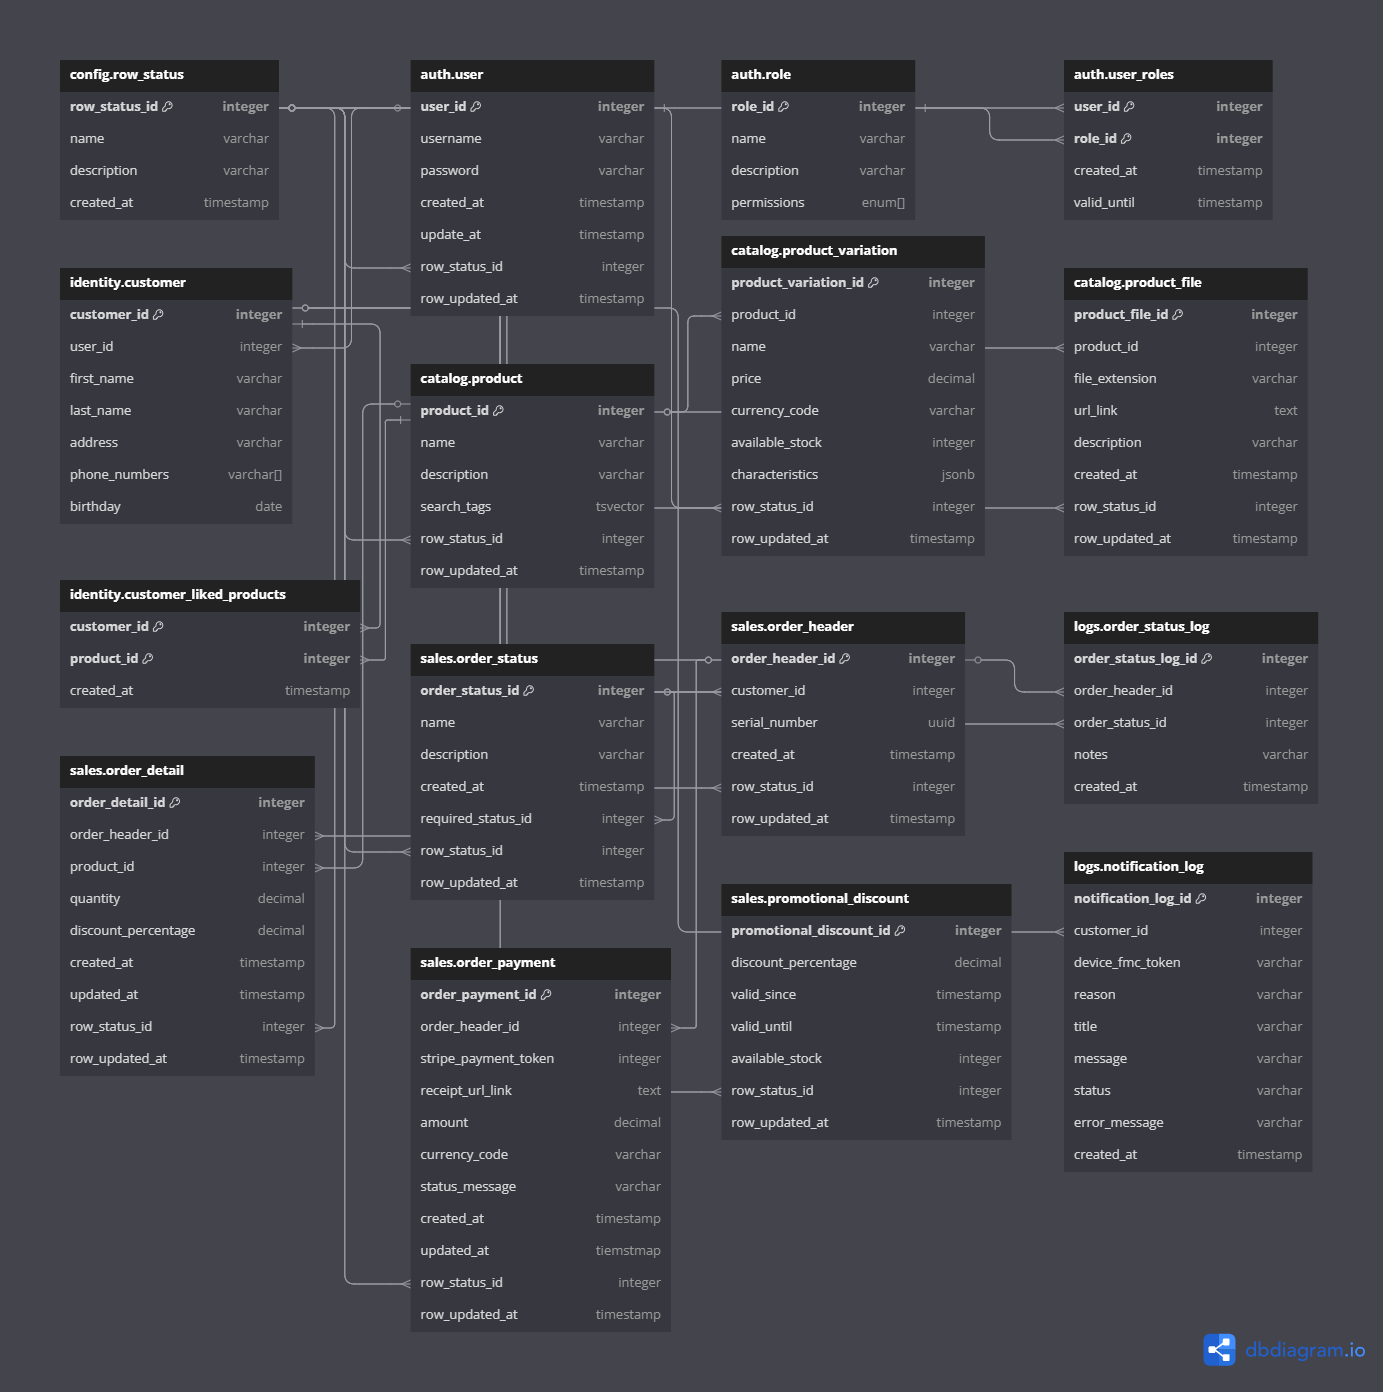
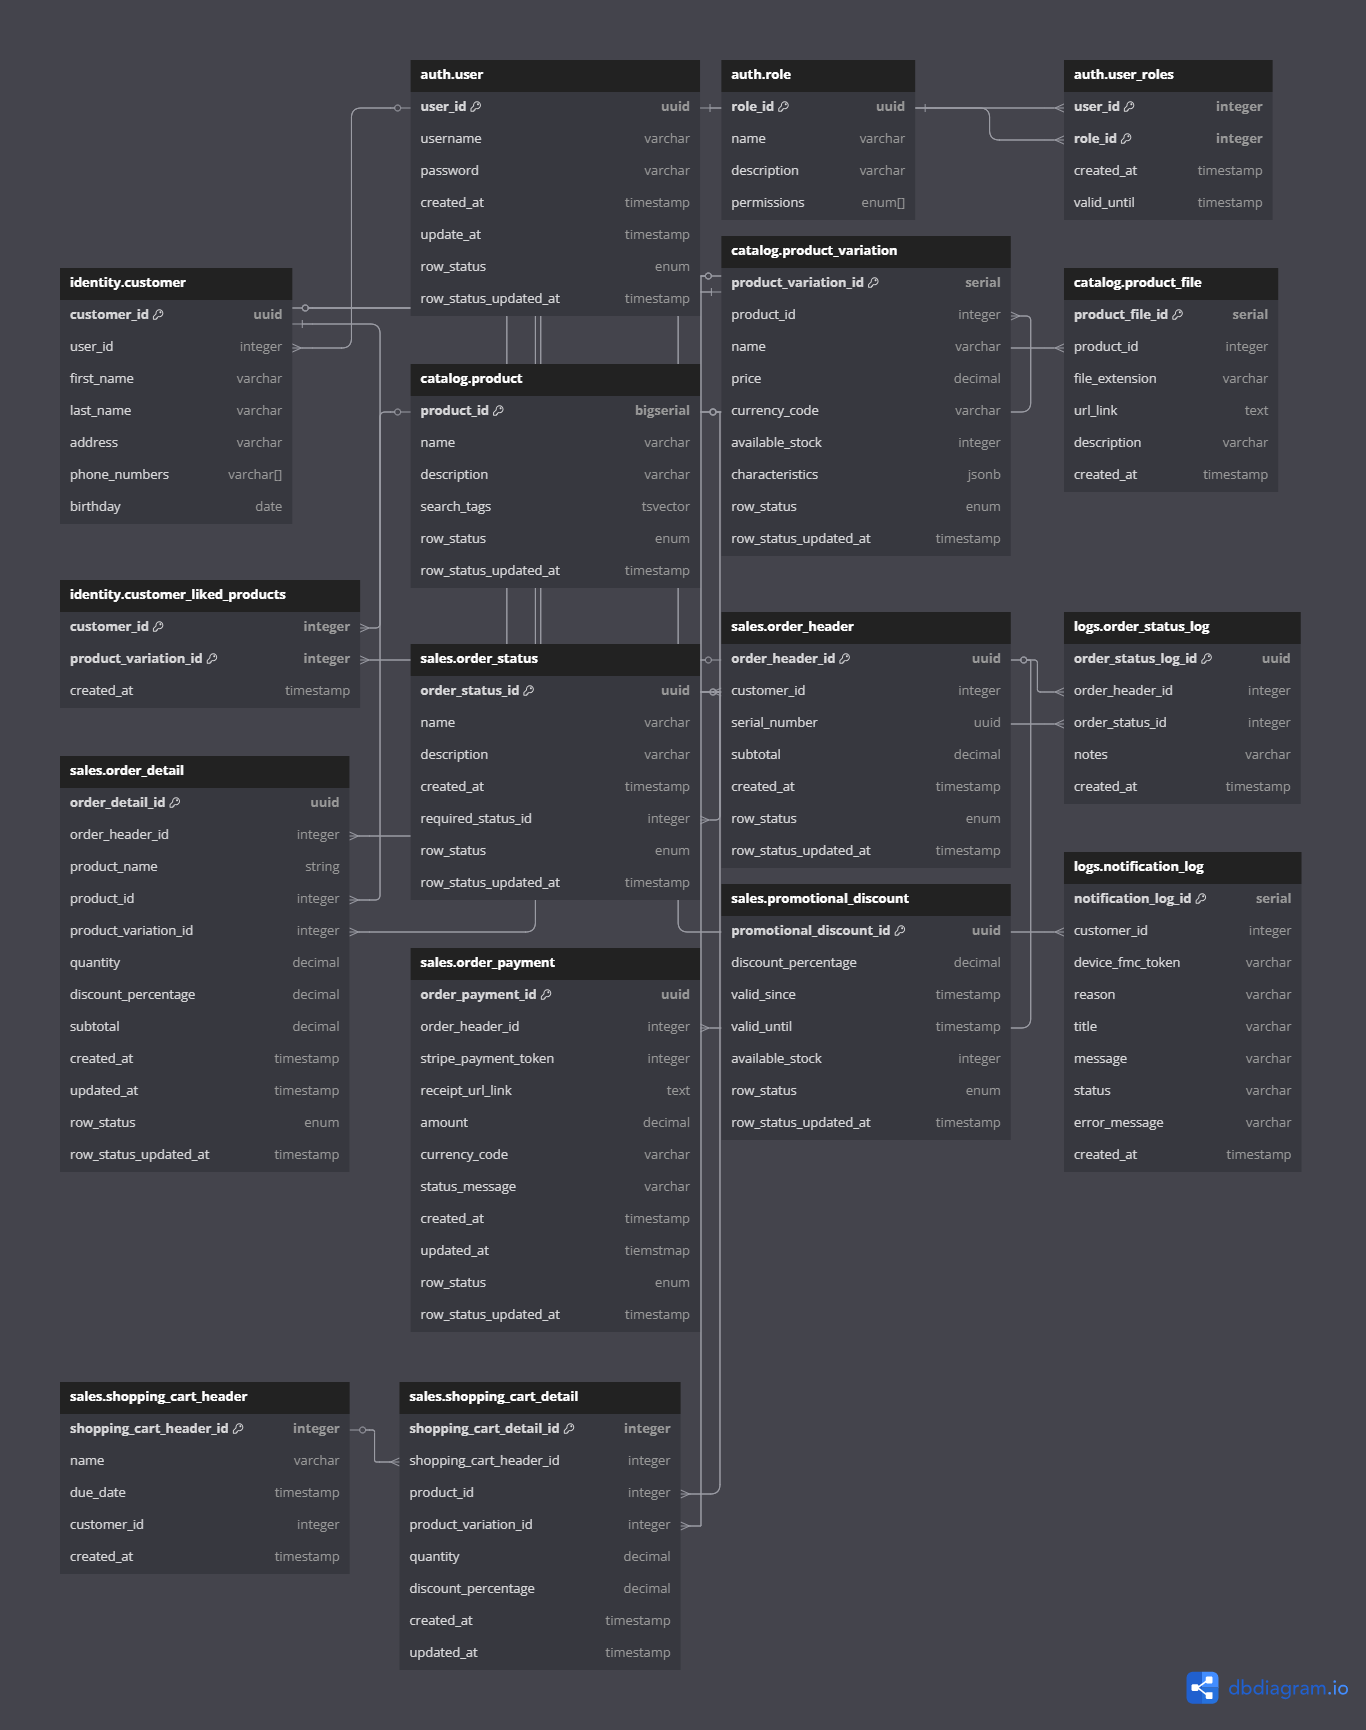
Fix: Updated ERD model for database

diff --git a/4-database/README.md b/4-database/README.md
@@ -46,6 +46,18 @@ Then you can execute the SQL files in the same order that exists in the `init.db
 The ERD model solution create for the challenge can be found [here](https://dbdiagram.io/d/ERD-CHALLENGE-DATABASE-68129ef01ca52373f50ab300).
 It contains all of the ERD model information neccesary to replicate and export it to PostgreSQL.
 
+Here are some points to take in count:
+
+- Any row can only has one state at a time, this means that the rows cannot be `delete` and `inactive` at the same time due to it's not needed (by requirements) to store more than on state per row. The column that stores the row status is `row_status` and its of type `ENUM` to allow status flexibility for each table.
+
+- The primary key type for most tables is `UUID`. This is because the database must not have predictable values for possible vulnerable rows. However, the exception for that rule are those tables that doesn't contain or are related to sensible information, this applies for the following tables: `catalog.product`, `catalog.product_file`, `logs.notification_log`.
+
+- Each item in `sales.order_detail` can only has one discount promotion applied. It's delimited in that way to not overcomplicate the solution since it's not included into the requirements.
+
+- There is no relation from `sales.order_detail` to `sales.promotional_discount` because the promotion config can change over time so it's preferable to store the discount percentage instead of the relation (and that helps to the total calculation too).
+
+- There are aditional fields to store the literal product name and subtotal in `sales.order_detail` because these fields can change over time and we need to still keep the relation with the product.
+
 Here's the image that describes the model:
 !['ERD model image'](./ERD-image.png)
 
@@ -54,25 +66,18 @@ Here's also the code that describes the model:
 ```
 // SOLUTION FOR ERD IN MODULE 4 NERDERY PROGRAM NODE JS - BY ERICK HUALLA
 
-Table config.row_status {
-  row_status_id integer [primary key]
-  name varchar
-  description varchar
-  created_at timestamp
-}
-
 Table auth.user {
-  user_id integer [primary key]
+  user_id uuid [primary key]
   username varchar
   password varchar
   created_at timestamp
   update_at timestamp
-  row_status_id integer
-  row_updated_at timestamp
+  row_status enum
+  row_status_updated_at timestamp
 }
 
 Table auth.role {
-  role_id integer [primary key]
+  role_id uuid [primary key]
   name varchar
   description varchar
   permissions enum[]
@@ -86,7 +91,7 @@ Table auth.user_roles {
 }
 
 Table identity.customer {
-  customer_id integer [primary key]
+  customer_id uuid [primary key]
   user_id integer
   first_name varchar
   last_name varchar
@@ -96,64 +101,82 @@ Table identity.customer {
 }
 
 Table catalog.product {
-  product_id integer [primary key]
+  product_id bigserial [primary key]
   name varchar
   description varchar
   search_tags tsvector
-  row_status_id integer
-  row_updated_at timestamp
+  row_status enum
+  row_status_updated_at timestamp
 }
 
 Table catalog.product_variation {
-  product_variation_id integer [primary key]
+  product_variation_id serial [primary key]
   product_id integer
   name varchar
   price decimal
   currency_code varchar
   available_stock integer
   characteristics jsonb
-  row_status_id integer
-  row_updated_at timestamp
+  row_status enum
+  row_status_updated_at timestamp
 }
 
 Table catalog.product_file {
-  product_file_id integer [primary key]
+  product_file_id serial [primary key]
   product_id integer
   file_extension varchar
   url_link text
   description varchar
   created_at timestamp
-  row_status_id integer
-  row_updated_at timestamp
 }
 
 Table identity.customer_liked_products {
   customer_id integer [primary key]
-  product_id integer [primary key]
+  product_variation_id integer [primary key]
   created_at timestamp
 }
 
 Table sales.order_status {
-  order_status_id integer [primary key]
+  order_status_id uuid [primary key]
   name varchar
   description varchar
   created_at timestamp
   required_status_id integer
-  row_status_id integer
-  row_updated_at timestamp
+  row_status enum
+  row_status_updated_at timestamp
+}
+
+Table sales.shopping_cart_header {
+  shopping_cart_header_id integer [primary key]
+  name varchar
+  due_date timestamp
+  customer_id integer
+  created_at timestamp
+}
+
+Table sales.shopping_cart_detail {
+  shopping_cart_detail_id integer [primary key]
+  shopping_cart_header_id integer
+  product_id integer
+  product_variation_id integer
+  quantity decimal
+  discount_percentage decimal
+  created_at timestamp
+  updated_at timestamp
 }
 
 Table sales.order_header {
-  order_header_id integer [primary key]
+  order_header_id uuid [primary key]
   customer_id integer
   serial_number uuid
+  subtotal decimal
   created_at timestamp
-  row_status_id integer
-  row_updated_at timestamp
+  row_status enum
+  row_status_updated_at timestamp
 }
 
 Table logs.order_status_log {
-  order_status_log_id integer [primary key]
+  order_status_log_id uuid [primary key]
   order_header_id integer
   order_status_id integer
   notes varchar
@@ -161,19 +184,22 @@ Table logs.order_status_log {
 }
 
 Table sales.order_detail {
-  order_detail_id integer [primary key]
+  order_detail_id uuid [primary key]
   order_header_id integer
+  product_name string
   product_id integer
+  product_variation_id integer
   quantity decimal
   discount_percentage decimal
+  subtotal decimal
   created_at timestamp
   updated_at timestamp
-  row_status_id integer
-  row_updated_at timestamp
+  row_status enum
+  row_status_updated_at timestamp
 }
 
 Table sales.order_payment {
-  order_payment_id integer [primary key]
+  order_payment_id uuid [primary key]
   order_header_id integer
   stripe_payment_token integer
   receipt_url_link text
@@ -182,22 +208,22 @@ Table sales.order_payment {
   status_message varchar
   created_at timestamp
   updated_at tiemstmap
-  row_status_id integer
-  row_updated_at timestamp
+  row_status enum
+  row_status_updated_at timestamp
 }
 
 Table sales.promotional_discount {
-  promotional_discount_id integer [primary key]
+  promotional_discount_id uuid [primary key]
   discount_percentage decimal
   valid_since timestamp
   valid_until timestamp
   available_stock integer
-  row_status_id integer
-  row_updated_at timestamp
+  row_status enum
+  row_status_updated_at timestamp
 }
 
 Table logs.notification_log {
-  notification_log_id integer [primary key]
+  notification_log_id serial [primary key]
   customer_id integer
   device_fmc_token varchar
   reason varchar
@@ -208,45 +234,34 @@ Table logs.notification_log {
   created_at timestamp
 }
 
-Ref: auth.user.row_status_id > config.row_status.row_status_id
-
 Ref: auth.user_roles.role_id > auth.role.role_id
 Ref: auth.user_roles.user_id > auth.user.user_id
 
 Ref: identity.customer.user_id > auth.user.user_id
 
-Ref: catalog.product.row_status_id > config.row_status.row_status_id
-
 Ref: catalog.product_variation.product_id > catalog.product.product_id
-Ref: catalog.product_variation.row_status_id > config.row_status.row_status_id
 
 Ref: catalog.product_file.product_id > catalog.product.product_id
-Ref: catalog.product_file.row_status_id > config.row_status.row_status_id
 
 Ref: identity.customer_liked_products.customer_id > identity.customer.customer_id
-Ref: identity.customer_liked_products.product_id > catalog.product.product_id
+Ref: identity.customer_liked_products.product_variation_id > catalog.product_variation.product_variation_id
 
 Ref: sales.order_status.required_status_id > sales.order_status.order_status_id
-Ref: sales.order_status.row_status_id > config.row_status.row_status_id
 
 Ref: sales.order_header.customer_id > identity.customer.customer_id
-Ref: sales.order_header.row_status_id > config.row_status.row_status_id
 
 Ref: logs.order_status_log.order_header_id > sales.order_header.order_header_id
 Ref: logs.order_status_log.order_status_id > sales.order_status.order_status_id
 
 Ref: sales.order_detail.order_header_id > sales.order_header.order_header_id
 Ref: sales.order_detail.product_id > catalog.product.product_id
-Ref: sales.order_detail.row_status_id > config.row_status.row_status_id
+Ref: sales.order_detail.product_variation_id > catalog.product_variation.product_variation_id
+
+Ref: sales.shopping_cart_detail.shopping_cart_header_id > sales.shopping_cart_header.shopping_cart_header_id
+Ref: sales.shopping_cart_detail.product_id > catalog.product.product_id
+Ref: sales.shopping_cart_detail.product_variation_id > catalog.product_variation.product_variation_id
 
 Ref: sales.order_payment.order_header_id > sales.order_header.order_header_id
-Ref: sales.order_payment.row_status_id > config.row_status.row_status_id
-
-Ref: sales.promotional_discount.row_status_id > config.row_status.row_status_id
 
 Ref: logs.notification_log.customer_id > identity.customer.customer_id
 ```
-
-## Notes
-
-It is important to say that we use a single table to store the shopping cart and order information since they share almost all of the columns. The state to differenciate between an order and shopping cart is in the sales.order_status table.
